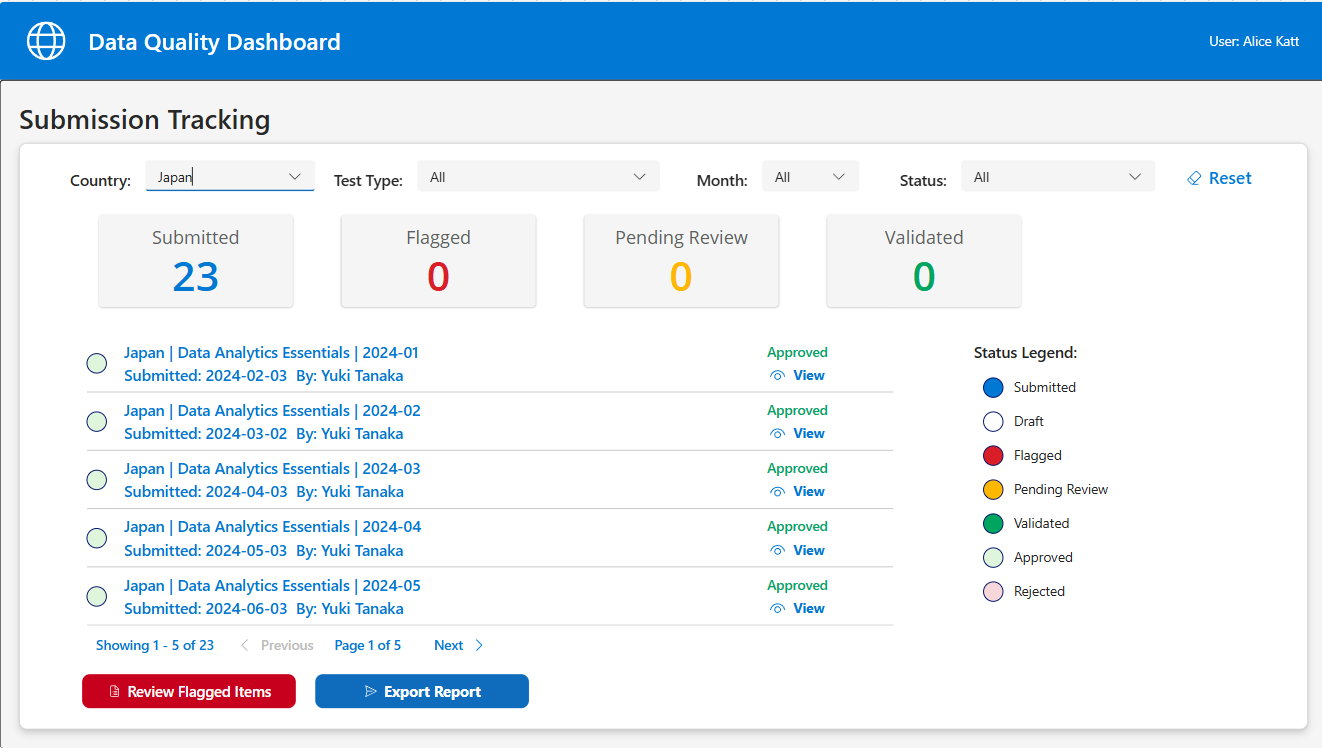
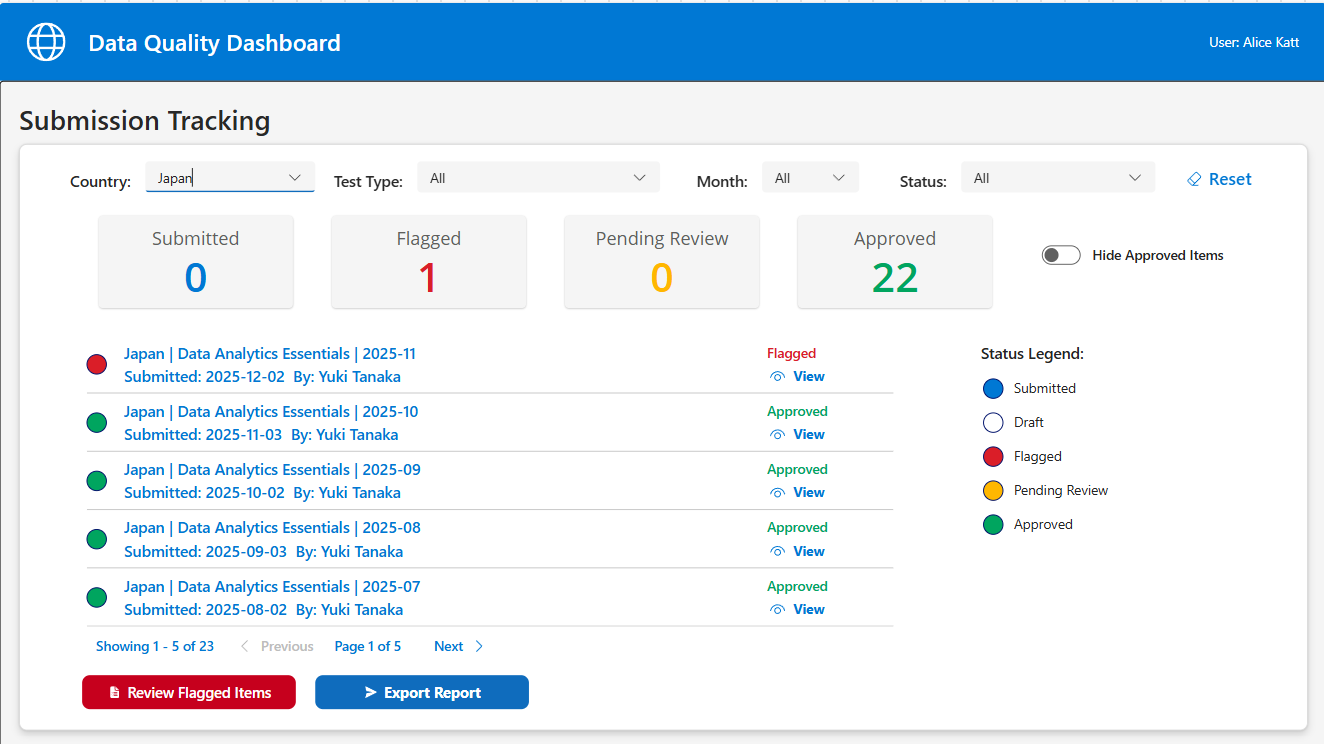
Update README and Submission Tracking Screenshots

diff --git a/README.md b/README.md
@@ -375,15 +375,19 @@ An integrated Power Platform solution that transforms enrollment data collection
 
 **Overview: Full Submission List**
 ![Submission Tracking Overview](power-apps/screenshots/02_GTE_DataQuality/01-submission-tracking-overview.png)
-*Complete analyst dashboard with 4 dynamic filters, KPI summary cards (138 Submitted, 0 Flagged, 0 Pending, 0 Validated), professional pagination, and data-driven status legend. Shows 5 items per page with "Page 1 of 28" navigation.*
+*Complete analyst dashboard with 4 dynamic filters, KPI summary cards (5 Submitted, 1 Flagged, 0 Pending, 132 Approved), professional pagination, and data-driven status legend. Shows 5 items per page with "Page 1 of 28" navigation. Toggle provided to allow users to filter out Approved Items*
 
 **Filtered View: Country Selection**
 ![Submission Tracking Filtered](power-apps/screenshots/02_GTE_DataQuality/02-submission-tracking-filtered.png)
-*Dynamic filtering in action - Japan selected showing 23 submissions with updated KPI counts and pagination (Page 1 of 5). Demonstrates cascading filter logic with real-time collection updates.*
+*Dynamic filtering in action - Japan selected showing 1 flagged item and 22 approvals with updated KPI counts and pagination (Page 1 of 5). Demonstrates cascading filter logic with real-time collection updates.*
 
 **Pagination: Edge Case Handling**
 ![Submission Tracking Pagination](power-apps/screenshots/02_GTE_DataQuality/03-submission-tracking-pagination.png)
 *Last page pagination showing exact remainder calculation (3 items on final page). Custom formula prevents item duplication: LastN(collection, Total - (CompletedPages × ItemsPerPage))*
+
+**Toggle: Hide Approved Items**
+![Submission Tracking Pagination](power-apps/screenshots/02_GTE_DataQuality/04-submission-tracking-approvals-hidden.png)
+*Complete analyst dashboard with toggle checked to hide Approved items, KPI summary cards (0 Submitted, 1 Flagged, 0 Pending, 0 Approved)*
 
 ### Data Quality Dashboard
 - Anomaly detection interface
